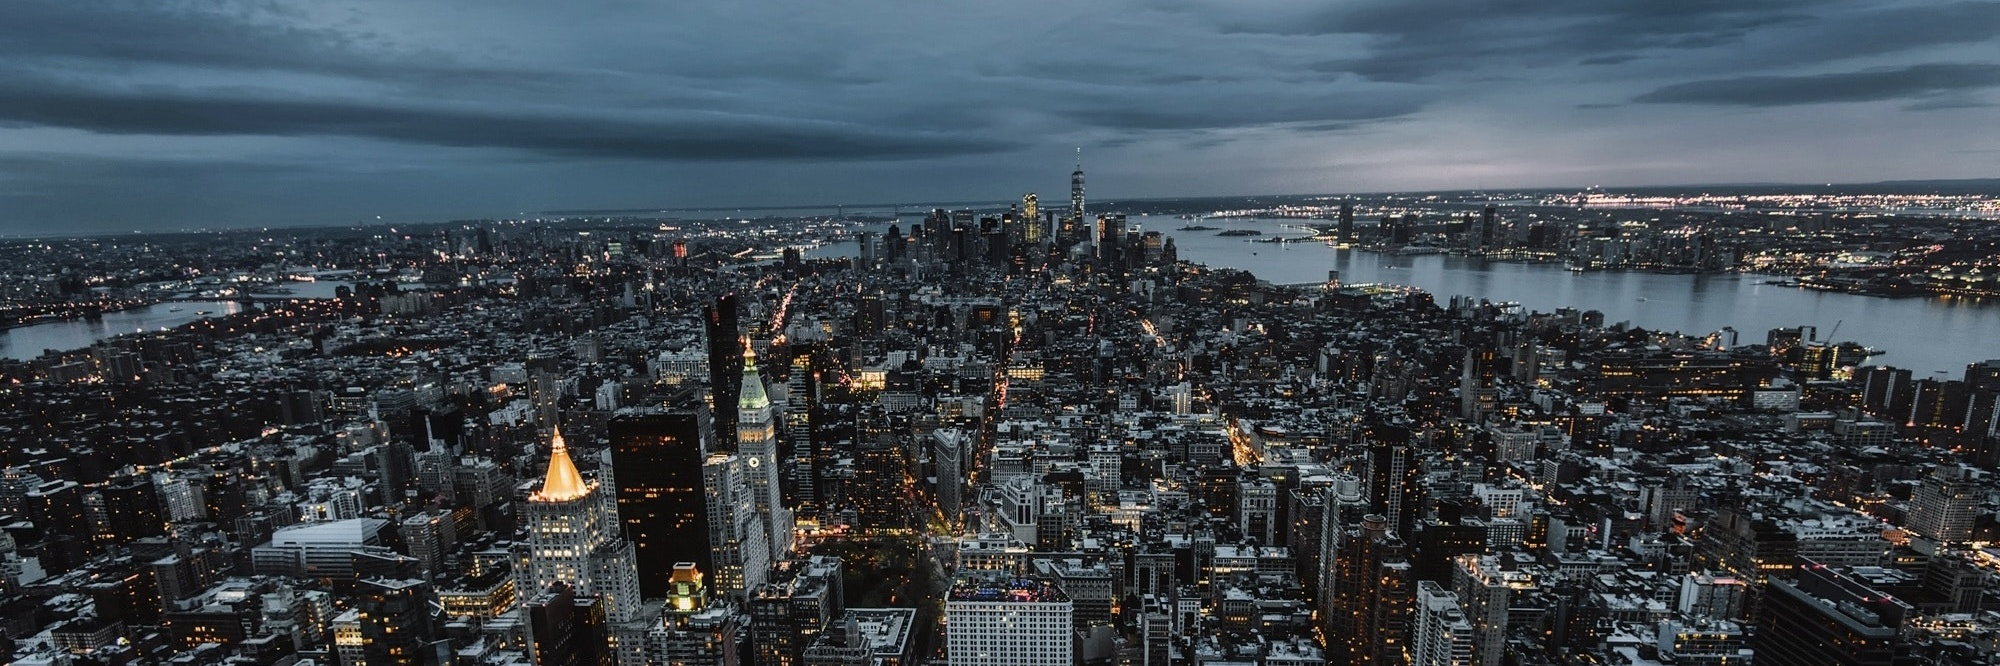
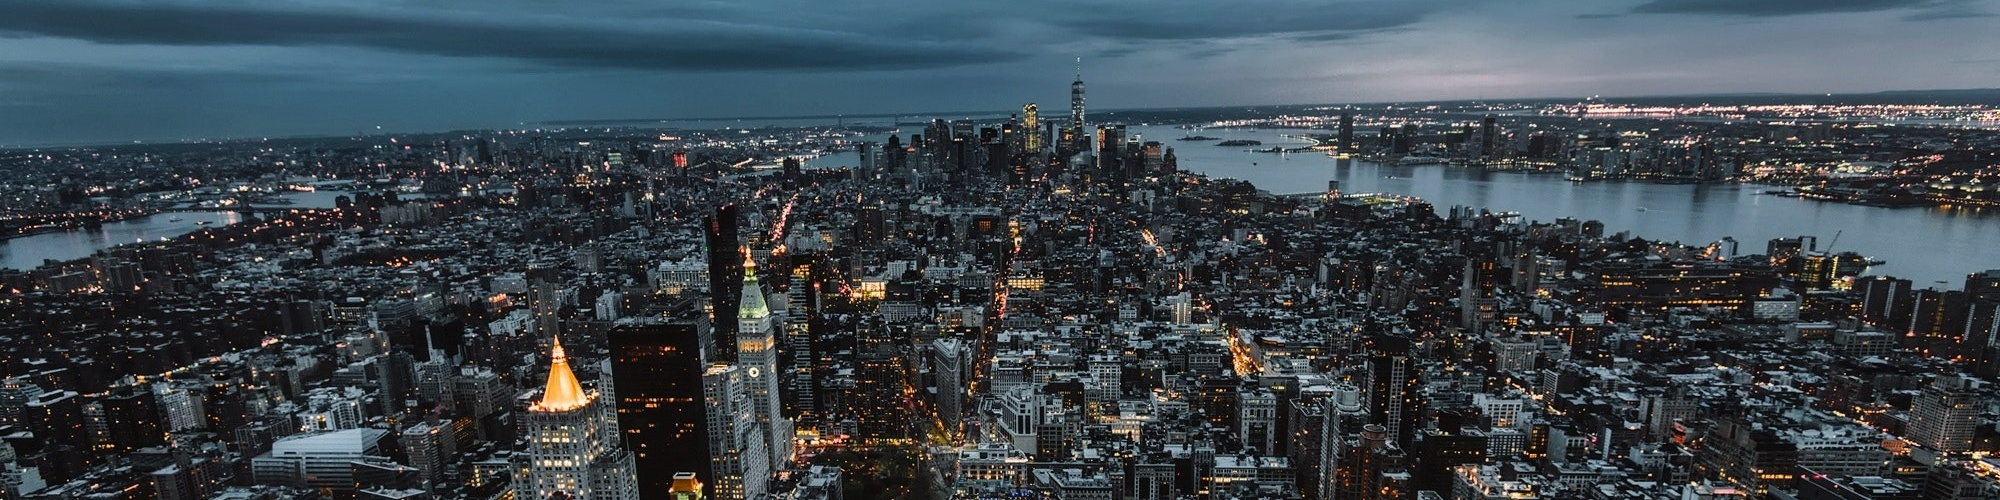
Adjust image layout

diff --git a/public/js/modal.js b/public/js/modal.js
@@ -8,9 +8,12 @@ var loginBtn = document.getElementById("loginBtn");
 var loginClose = document.getElementById("loginClose");
 
 // When the user clicks the button, open the modal
-loginBtn.onclick = function() {
-    loginModal.style.display = "block";
+if (loginBtn){
+    loginBtn.onclick = function() {
+        loginModal.style.display = "block";
+    }
 }
+
 
 // When the user clicks on <span> (x), close the modal
 loginClose.onclick = function() {

diff --git a/public/css/style.css b/public/css/style.css
@@ -7,7 +7,7 @@
 }
 
 .header-left{
-    font-size: 160px;
+    font-size: 120px;
     font-family: "Arial Black";
     margin: 0 20px;
     float: left;
@@ -15,7 +15,7 @@
 
 .header-middle{
     width: 5px;
-    height: 140px;
+    height: 120px;
     background-color: #0E1C40;
 }
 
@@ -26,7 +26,7 @@
 }
 
 .header-image{
-    width: 95%;
+    width: 93%;
     position: relative;
     margin-left: auto;
     margin-right: auto;
